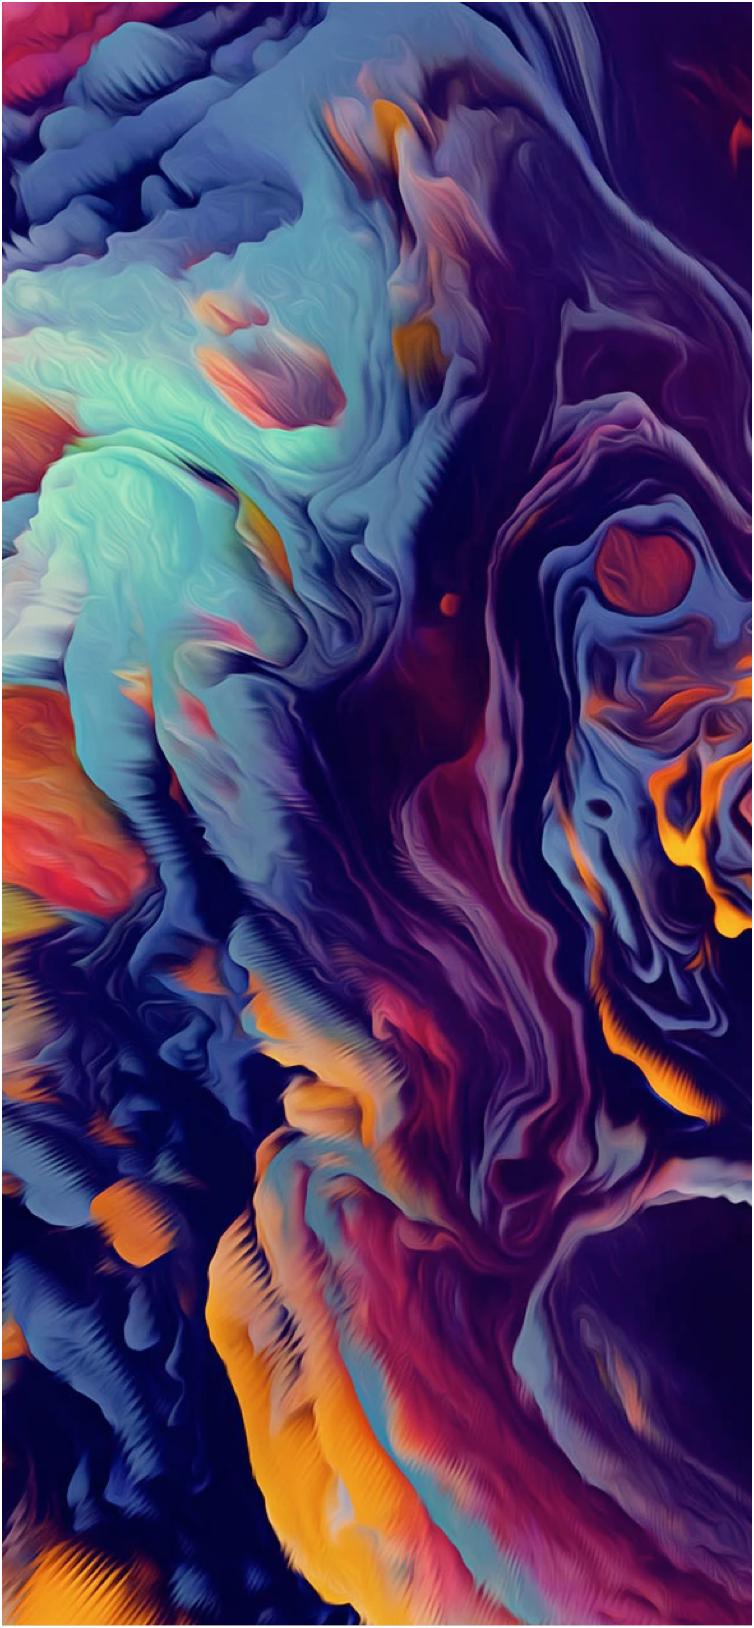
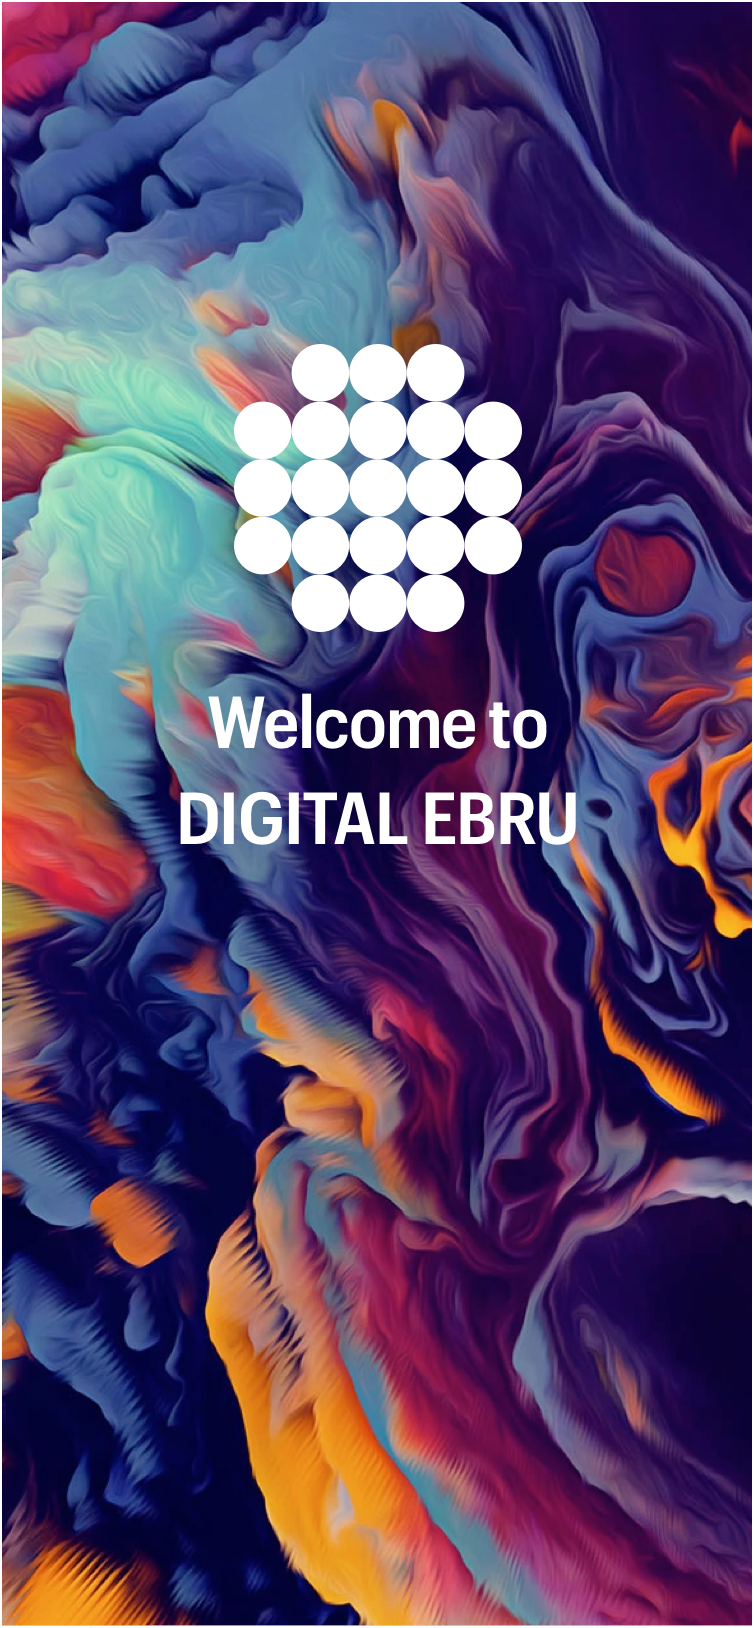
update4

Changed region(s): [[0.305, 0.1843, 0.7016, 0.3993], [0.2135, 0.43, 0.7626, 0.5221]]

diff --git a/tangible/digital-ebru-mobile.html b/tangible/digital-ebru-mobile.html
@@ -13,9 +13,7 @@
 <body>
     <div class="background">
         <img src="img/background.png" alt="background">
-        <div id="logo">
-            <img src="img/logo.png" alt="DIGITAL EBRU">
-        </div>
+
         <img src="img/tutorial.png" class="tutorial" onclick="tutorial()">
         <img src="img/play.png" class="play" alt="DIGITAL EBRU" onclick="play()">
     </div>

diff --git a/tangible/style.css b/tangible/style.css
@@ -24,13 +24,7 @@ body {
     border-radius: 30px;
 }
 
-#logo {
-    position: absolute;
-    top: 170px;
-    left: 87px;
-    margin: auto;
-    width: 50%;
-}
+
 
 .tutorial {
     width: 110px;
